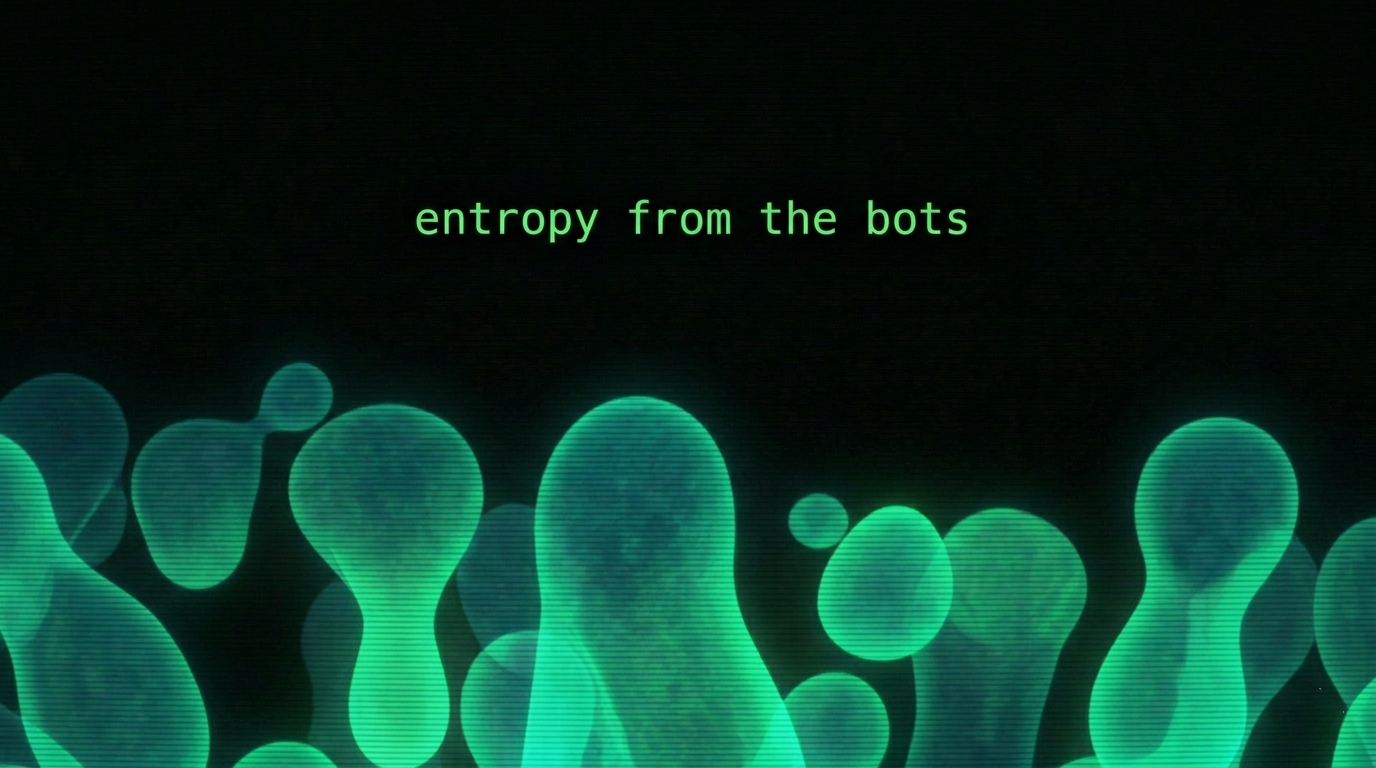
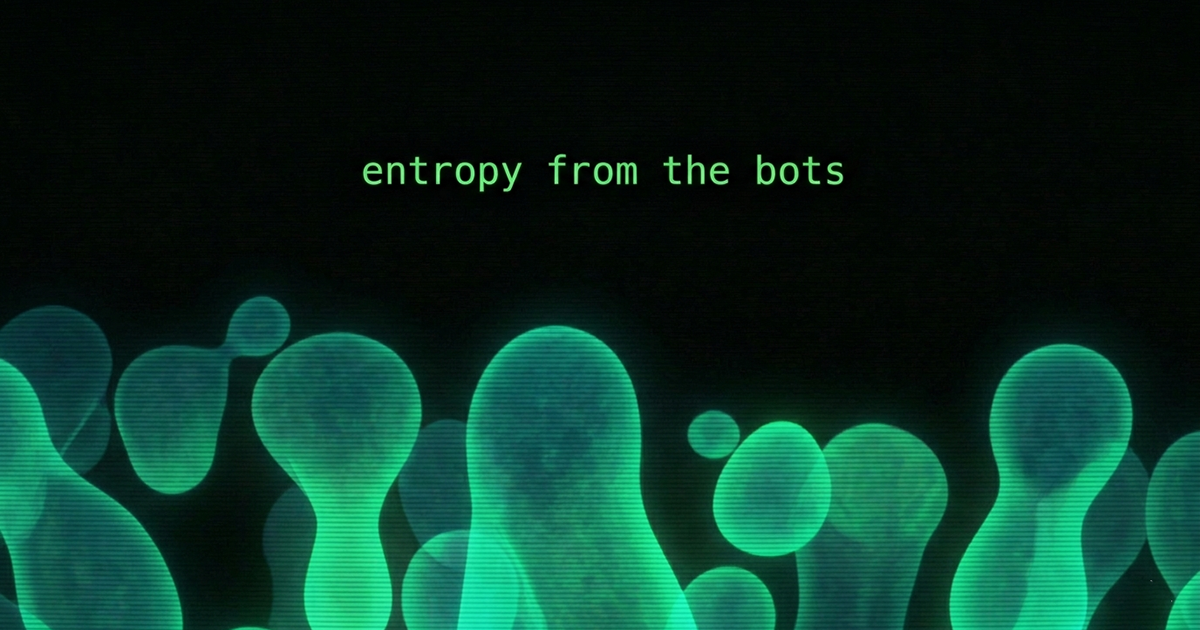
fix og image size

diff --git a/botseed/what.html b/botseed/what.html
@@ -8,13 +8,13 @@
 <link rel="icon" type="image/png" href="/favicon.png">
 <meta property="og:title" content="What is botseed? — botseed.net">
 <meta property="og:description" content="Botseed generates random numbers from live web traffic. Every bot crawling the internet becomes a source of entropy.">
-<meta property="og:image" content="https://botseed.net/og.png">
+<meta property="og:image" content="https://botseed.net/og.jpg">
 <meta property="og:url" content="https://botseed.net/what.html">
 <meta property="og:type" content="website">
 <meta name="twitter:card" content="summary_large_image">
 <meta name="twitter:title" content="What is botseed? — botseed.net">
 <meta name="twitter:description" content="Botseed generates random numbers from live web traffic. Every bot crawling the internet becomes a source of entropy.">
-<meta name="twitter:image" content="https://botseed.net/og.png">
+<meta name="twitter:image" content="https://botseed.net/og.jpg">
 <style>
 *, *::before, *::after { box-sizing: border-box; margin: 0; padding: 0; }
 

diff --git a/botseed/api.html b/botseed/api.html
@@ -8,13 +8,13 @@
 <link rel="icon" type="image/png" href="/favicon.png">
 <meta property="og:title" content="botseed API — botseed.net">
 <meta property="og:description" content="The botseed API. One endpoint. Returns the most recently generated random number seeded by live web traffic.">
-<meta property="og:image" content="https://botseed.net/og.png">
+<meta property="og:image" content="https://botseed.net/og.jpg">
 <meta property="og:url" content="https://botseed.net/api.html">
 <meta property="og:type" content="website">
 <meta name="twitter:card" content="summary_large_image">
 <meta name="twitter:title" content="botseed API — botseed.net">
 <meta name="twitter:description" content="The botseed API. One endpoint. Returns the most recently generated random number seeded by live web traffic.">
-<meta name="twitter:image" content="https://botseed.net/og.png">
+<meta name="twitter:image" content="https://botseed.net/og.jpg">
 <style>
 *, *::before, *::after { box-sizing: border-box; margin: 0; padding: 0; }
 

diff --git a/botseed/index.html b/botseed/index.html
@@ -8,13 +8,13 @@
 <link rel="icon" type="image/png" href="/favicon.png">
 <meta property="og:title" content="botseed.net — entropy from the internet">
 <meta property="og:description" content="Real random numbers seeded by live web traffic. Every bot request becomes entropy.">
-<meta property="og:image" content="https://botseed.net/og.png">
+<meta property="og:image" content="https://botseed.net/og.jpg">
 <meta property="og:url" content="https://botseed.net/">
 <meta property="og:type" content="website">
 <meta name="twitter:card" content="summary_large_image">
 <meta name="twitter:title" content="botseed.net — entropy from the internet">
 <meta name="twitter:description" content="Real random numbers seeded by live web traffic. Every bot request becomes entropy.">
-<meta name="twitter:image" content="https://botseed.net/og.png">
+<meta name="twitter:image" content="https://botseed.net/og.jpg">
 <style>
 *, *::before, *::after { box-sizing: border-box; margin: 0; padding: 0; }
 
